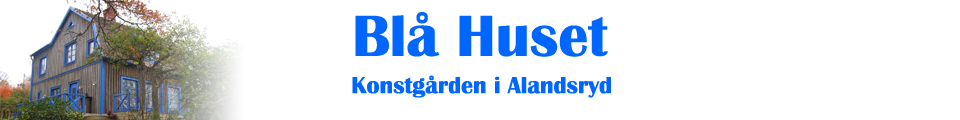
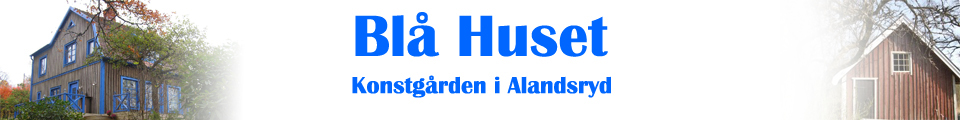
ok

Changed region(s): [[0.8438, 0.0, 1.0, 1.0]]

diff --git a/blahuset.bennedahl.se/public_html/css/StyleSheet.css b/blahuset.bennedahl.se/public_html/css/StyleSheet.css
@@ -5,22 +5,23 @@ body
     background: #CADAFF;
     font-size: .80em;
     font-family: Arial, Helvetica, sans-serif;
-    margin: 0px;
-    padding: 0px;
     color: #484848;
 }
 
 footer
 {
     border-style: solid none none none;
+    border-top-width: 1px;
+    border-top-color: #496077;
     color: #4e5766;
     background-color: #E0E0E0;
     padding: 8px 0px 8px 0px;
-    margin: 0px auto;
     text-align: center;
-    line-height: normal;
-    border-top-width: 1px;
-    border-top-color: #496077;
+}
+h3
+{
+	margin: 0; 
+	padding: 0;
 }
 /* NAVIGATION
 ----------------------------------------------------------*/
@@ -28,8 +29,8 @@ footer
 {
 	height: 37px;
 	background-color:#0066FF;
-	border-top: 1px solid black;
-	border-bottom: 1px solid black;
+	border-top: 1px solid #496077;
+	border-bottom: 1px solid #496077;
 	text-align: center;
 }
 
@@ -61,15 +62,20 @@ footer
 .page
 {
 	padding-left: 15px;
+	padding-right: 15px;
 	min-height: 500px;
 }
 .pageContent
 {
-	width: 470px;
+	width: 460px;
 }
 .right 
 {
 	float:right;
+}
+.center
+{
+	text-align:center;
 }
 .topBlock
 {
@@ -84,15 +90,12 @@ footer
 {
 	border:solid #555 1px;
 }
-.imgContainder
+.imgContainer
 {
-	width:800px; 
-	height:600px; 
-	display:inline-block; 
-	text-align:center; 
-	background-color:#ddd; 
-	margin-left:60px; 
-	margin-right:60px;
+	height:650px; 
+	width:962px;
+	display:inline-block;
+	margin-left:-15px; 
 }
 .imgHolderSmall
 {
@@ -100,6 +103,6 @@ footer
 	display:inline-block; 
 	text-align:center; 
 	background-color:#ddd; 
-	margin:5px; 
+	margin:5px;
 	cursor:pointer;
 }

diff --git a/blahuset.bennedahl.se/public_html/css/JavaScript.js b/blahuset.bennedahl.se/public_html/css/JavaScript.js
@@ -3,9 +3,6 @@ function gallery() {
 	var galleriVald = galleri.options[galleri.selectedIndex].value;
 	$("#galleryContainder").load("_getGalleri.php?galleri="+galleriVald);
 }
-function galleryDef() {
-	$("#galleryContainder").load("_getGalleri.php?galleri=änglar");
-}
 function image(ID) {
 	$("#imgContainder").load("_getImg.php?imageID="+ID);
 }

diff --git a/blahuset.bennedahl.se/public_html/konstnarer.php b/blahuset.bennedahl.se/public_html/konstnarer.php
@@ -1,22 +1,34 @@
 <h2>Konstnärer</h2>
-<div class="pageContent topBlock">
-<h3>Christine Weber-Bennedahl</h3> Oljemålning och blandteknik
-<p>Christine föddes 1958 i Strasbourg, Frankrike.
-studerade fem år på konstfacket i Strasbourg och fick stadens hederspris.
-Christine är bosatt i Sverige sedan 1983 och arbetar som illustratör och konstnär. 
-Hon fick Värnamos kulturstipendium 2001 och Tegnérs Bildpris 2002. <br />
-Kontakt: <a href="mailto:christine@blahuset.org">christine@blahuset.org</a> </p>
-<img alt="Christine Bennedahl" src="css/christine-small.jpg" class="border"/>
+<div class="pageContent topBlock" style="height:270px;">
+	<h3>Christine Weber-Bennedahl</h3> 
+	<p style="padding-top:0; margin-top:0;">Oljemålning och blandteknik</p>
+	<div style="width:250px;" class="topBlock">
+		<p>Christine föddes 1958 i Strasbourg, Frankrike.
+		studerade fem år på konstfacket i Strasbourg och fick stadens hederspris.
+		Christine är bosatt i Sverige sedan 1983 och arbetar som illustratör och konstnär. 
+		Hon fick Värnamos kulturstipendium 2001 och Tegnérs Bildpris 2002. <br>
+		Kontakt: <a href="mailto:christine@blahuset.org">christine@blahuset.org</a></p>
+	</div>
+	<img alt="Christine Bennedahl" src="css/P7151235.JPG-for-web-small.jpg" class="topBlock border" style="margin-top:5px;"/>
 </div>     
 
-<div class="pageContent right topBlock">
+<div class="pageContent right topBlock" style="height:270px;">
     <h3>Stefan Bennedahl</h3>
-    Keramik
-<p>Stefan föddes 1954 i Värnamo. Han har gått kurser i skulptur och keramik och arbetat med skulptur i över 30 år.
-Stefan har arbetat som konstnär på heltid sedan 2009. Om sin konst säger Stefan, "Mina skulpturer skildrar människans inre, oftast mörka, värld".&nbsp;
-Som en del av Blå Huset har Stefan sitt personliga projekt Röda Rummet.
-En totalrenoverad utställningslokal, främst för konstnärens egen keramik. 
-<br />Kontakt: <a href="mailto:stefan@blahuset.org">stefan@blahuset.org</a> 
-    </p> 
-    <img alt="Stefan Bennedahl" src="css/stefan-small.jpg" class="border"/>
+    <p style="padding-top:0; margin-top:0;">Keramik</p>
+    <div style="width:290px;" class="topBlock">
+		<p>Stefan föddes 1954 i Värnamo. Han har gått kurser i skulptur och keramik och arbetat med skulptur i över 30 år.<br> 
+		Stefan har arbetat som konstnär på heltid sedan 2009. Om sin konst säger Stefan, "Mina skulpturer skildrar människans inre, oftast mörka, värld".
+		Som en del av Blå Huset har Stefan sitt personliga projekt Röda Rummet.
+		En totalrenoverad utställningslokal, främst för konstnärens egen keramik.<br> 
+		Kontakt: <a href="mailto:stefan@blahuset.org">stefan@blahuset.org</a> 
+		 </p>
+ 	</div> 
+    <img alt="Stefan Bennedahl" src="css/P7151232.JPG-for-web-small.jpg" class="border" style="margin-top:5px;"/>
+</div>
+<div>
+	<h3>Övriga konstnärer</h3>
+	<p>Vid Blå Husets olika utställningar och events medverkar även andra konstnärer.</p>
+	<div class="center" style="padding-bottom:10px;">
+		<img alt="Konstnärer" src="css/1270837054_resized.jpg" class="border"/>
+	</div>
 </div>

diff --git a/blahuset.bennedahl.se/public_html/index.php b/blahuset.bennedahl.se/public_html/index.php
@@ -7,12 +7,13 @@
 	<script src="//ajax.googleapis.com/ajax/libs/jquery/1.9.1/jquery.min.js"></script>
 	<script type="text/javascript" src="https://maps.googleapis.com/maps/api/js?key=AIzaSyBqCpTEQciJTJtvab0vX_ucZeyvgCS-53I&sensor=false"></script>
 	<meta charset="UTF-8">
+	<meta name="google-translate-customization" content="a9e016d5cad1e253-b0beb63025022b17-g6c2bea4444ab22eb-15"></meta>
 </head>
 <body>
 	<div class="content">
 		<header>
 			<div style="height:120px;">
-			 <a href="/home"><img src="css/banner3.jpg"/></a>
+			 <img src="css/banner3.jpg" onclick="location.href='home'"/>
 			</div>
 			 <div class="menu">
                     <button class="menuButton" onclick="location.href='home' ">Hem</button>
@@ -27,7 +28,13 @@
 			<?php include($_GET['page'].'.php'); ?>
 		</section>
 		<footer style="height:25px;">
-		Copyright © Blå Huset 2013
+		<div class="topBlock">Copyright © Blå Huset 2013</div>
+		<!--<div class="topBlock" id="google_translate_element"></div>
+		<script type="text/javascript">
+			function googleTranslateElementInit() {
+ 			new google.translate.TranslateElement({pageLanguage: 'sv', includedLanguages: 'en,fr', layout: google.translate.TranslateElement.InlineLayout.SIMPLE, autoDisplay: false}, 'google_translate_element');
+			}
+		</script><script type="text/javascript" src="//translate.google.com/translate_a/element.js?cb=googleTranslateElementInit"></script> -->
 		</footer>
 	</div>
 </body>

diff --git a/blahuset.bennedahl.se/public_html/kontakt.php b/blahuset.bennedahl.se/public_html/kontakt.php
@@ -1,5 +1,5 @@
+<h2>Kontakta oss</h2>
 <div class="pageContent topBlock">
-	<h2>Kontakta oss</h2>
 	Har frågor angående utställningar/ evenemang? Vill boka ett besök eller helt enkelt bara komma i kontakt med kostnärerna och Blå huset?
 	Hör då av dig till oss genom att:<br>
 	Fylla i kontaktformuläret till höger.<br>
@@ -11,8 +11,8 @@
 	 
 	Skicka då ett mail till oss, gärna med ditt namn, så listar vi dig som en av Blå Husets Vänner.
 </div>
-<div class="pageContent topBlock right pT">
-<form id="contactForm" method="post" action="index.php?page=_sendmail.php">
+<div class="pageContent topBlock right">
+<form id="contactForm" method="post" action="index.php?page=_sendmail">
 	<label>Namn:</label><br>
 	<input type="text" id="name"><br>
 	<label>E-post:</label><br>
@@ -20,7 +20,7 @@
 	<label>Ämne:</label><br>
 	<input type="text" id="subject"><br>
 	<label>Medelande:</label><br>
-	<textarea type="text" id="message"></textarea>
+	<textarea type="text" id="message"></textarea><br>
 	<button id="submit" name="submit">Skicka</button>
 </form>
 </div>

diff --git a/blahuset.bennedahl.se/public_html/utstallningar.php b/blahuset.bennedahl.se/public_html/utstallningar.php
@@ -1,5 +1,5 @@
 <h2>Om utställningarna</h2>
- <div class="pageContent">
+<div class="pageContent topBlock">
 <p>Blå Huset grundades 2005, och sedan dess har Christine och Stefan Bennedahl haft ett antal utställningar och evenemang, både med och utan andra konstnärer.</p>
  
 <p>
@@ -19,10 +19,15 @@
  
 <b>2005</b> Vind och vingar, med Ulla Theorell. <br><br>
  
-Julutställning Blå huset har varje år sin julutställning med
+<b>Julutställning</b> Blå huset har varje år sin julutställning med
                     målade fönster, julmarknad, julkaffe, provencalsk
                     julkrubba som utökas varje år, och utställnig med 
                     bild, skulptur, foto och video.
                     Ett antal konstnärer medverkar.
  </p>
 </div>
+<div class="pageContent right topBlock" style="text-align:center;">
+    <img src="css/PICT0067-small.jpg" class="border"><br>
+    <!-- <img src="css/cirkus-small.jpg" class="border"><br> -->
+    <img src="css/PICT0429-small.jpg" class="border">
+<div>

diff --git a/blahuset.bennedahl.se/public_html/galleri.php b/blahuset.bennedahl.se/public_html/galleri.php
@@ -3,12 +3,12 @@
 <h2>Bildgalleri</h2>
 <label>Välj galleri: </label>
 	<select id="galleryDrop" onchange="gallery();">
-	  <option value="änglar">änglar</option>
+	  <option value="anglar">änglar</option>
 	  <option value="yttreresor">innre/yttre resor</option>
 	</select><br><br>
 </div>
-<div id="imgContainder" class="imgContainder border"></div>
-<div id="galleryContainder"></div>
-<script type="text/javascript">galleryDef();</script>
+<div id="imgContainder" class="imgContainer"></div>
+<div id="galleryContainder" style="margin-bottom:10px;"></div>
+<script type="text/javascript">gallery();</script>
 
 

diff --git a/blahuset.bennedahl.se/public_html/hitta.php b/blahuset.bennedahl.se/public_html/hitta.php
@@ -1,5 +1,5 @@
-<div class="pageContent topBlock">
-	<h2>Hitta till Blå Huset</h2>
+<h2>Hitta till Blå Huset</h2>
+<div class="pageContent topBlock">	
 	<ul>
 	<li>Följ Gröndalsleden från Värnamo</li>
 	<li>Sväng vänster mot Alandsryd (liten skylt Blå Huset)</li>
@@ -8,7 +8,7 @@
 	<li>Sväng höger vid skylten Blå Huset</li>
 	</ul>
 </div>
-<div class="pageContent right topBlock pT">
+<div class="pageContent right topBlock">
 	<script type="text/javascript">
 		function initialize() {
        	var mapOptions = {

diff --git a/blahuset.bennedahl.se/public_html/home.php b/blahuset.bennedahl.se/public_html/home.php
@@ -1,7 +1,10 @@
 <div class="pageContent topBlock">
-<h2>Välkomna till Blå Huset ~ Konstgården i Alandsryd</h2>
+<h2>Välkomna till Blå Huset</h2>
+<p>Blå Huset är en konstgård i Alandsryd utanför Värnamo.<br>
+Det drivs av konstnärsparet Christine och Stefan Bennedahl.
+</p>
 </div>
 
-<div class="pageContent right topBlock" style="margin-right:-18px;">
+<div class="pageContent right topBlock" style="margin-right:-23px;">
 <img alt="Blå Huset" src="css/bla.jpg"/>
 </div>

diff --git a/blahuset.bennedahl.se/public_html/_getImg.php b/blahuset.bennedahl.se/public_html/_getImg.php
@@ -4,4 +4,7 @@ $imageID = $_GET['imageID'];
 $imgQuery = mysqli_query($con,"SELECT * FROM images WHERE imageID = '$imageID'");
 $imgRow = mysqli_fetch_array($imgQuery);
 ?>
-<img src="<?php echo ($imgRow['imagePath']); ?>" style="max-width:800px; max-height:600px;" />
+<div class="center">
+<img src="<?php echo ($imgRow['imagePath']); ?>" style="max-width:800px; max-height:600px;" class="border"/>
+<p><b><?php echo ($imgRow['text']); ?></b></p>
+</div>

diff --git a/blahuset.bennedahl.se/public_html/_getGalleri.php b/blahuset.bennedahl.se/public_html/_getGalleri.php
@@ -7,7 +7,7 @@ $imgRow = mysqli_fetch_array($imgQuery);
 while($row = mysqli_fetch_array($query)){
 ?>
 <div class="imgHolderSmall border" onClick="image(<?php echo ($row['imageID']); ?>);">
-	<img src="<?php echo ($row['imagePath']); ?>" style="max-height:80px; cursor:pointer;" onClick="image(<?php echo ($row['imageID']); ?>);"/>
+	<img src="<?php echo ($row['thumb']); ?>"/>
 </div>
 <?php
 }
